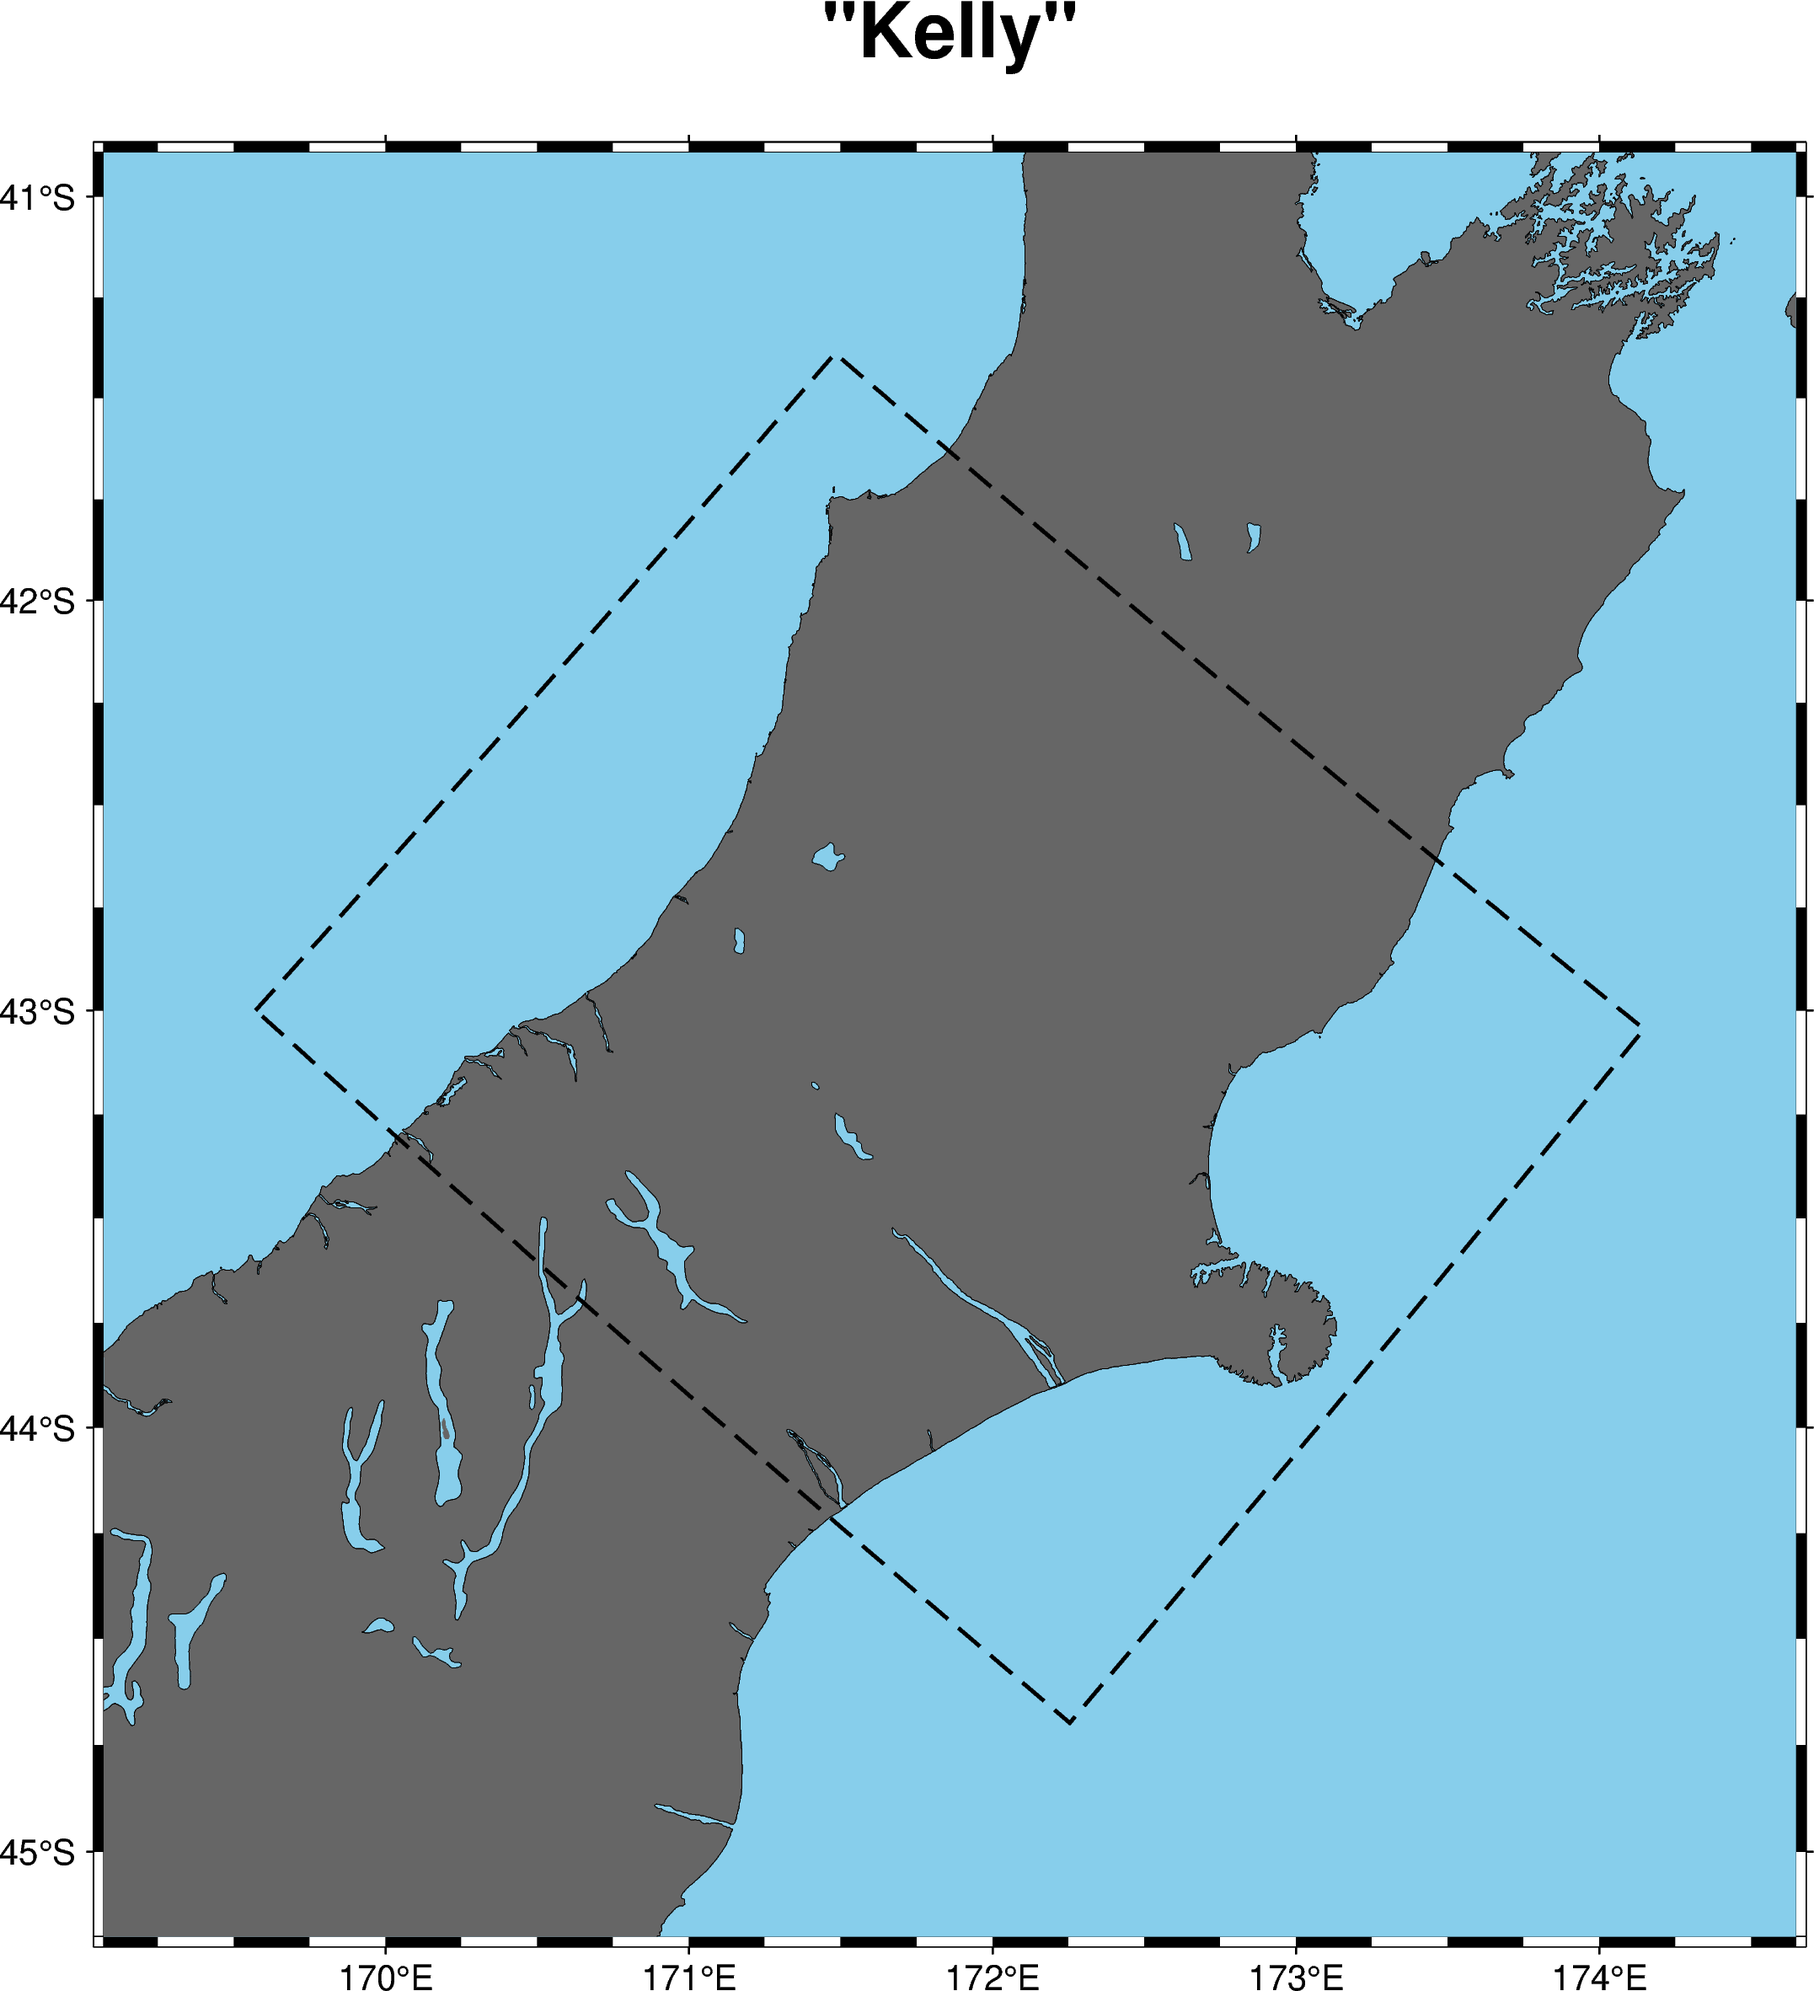
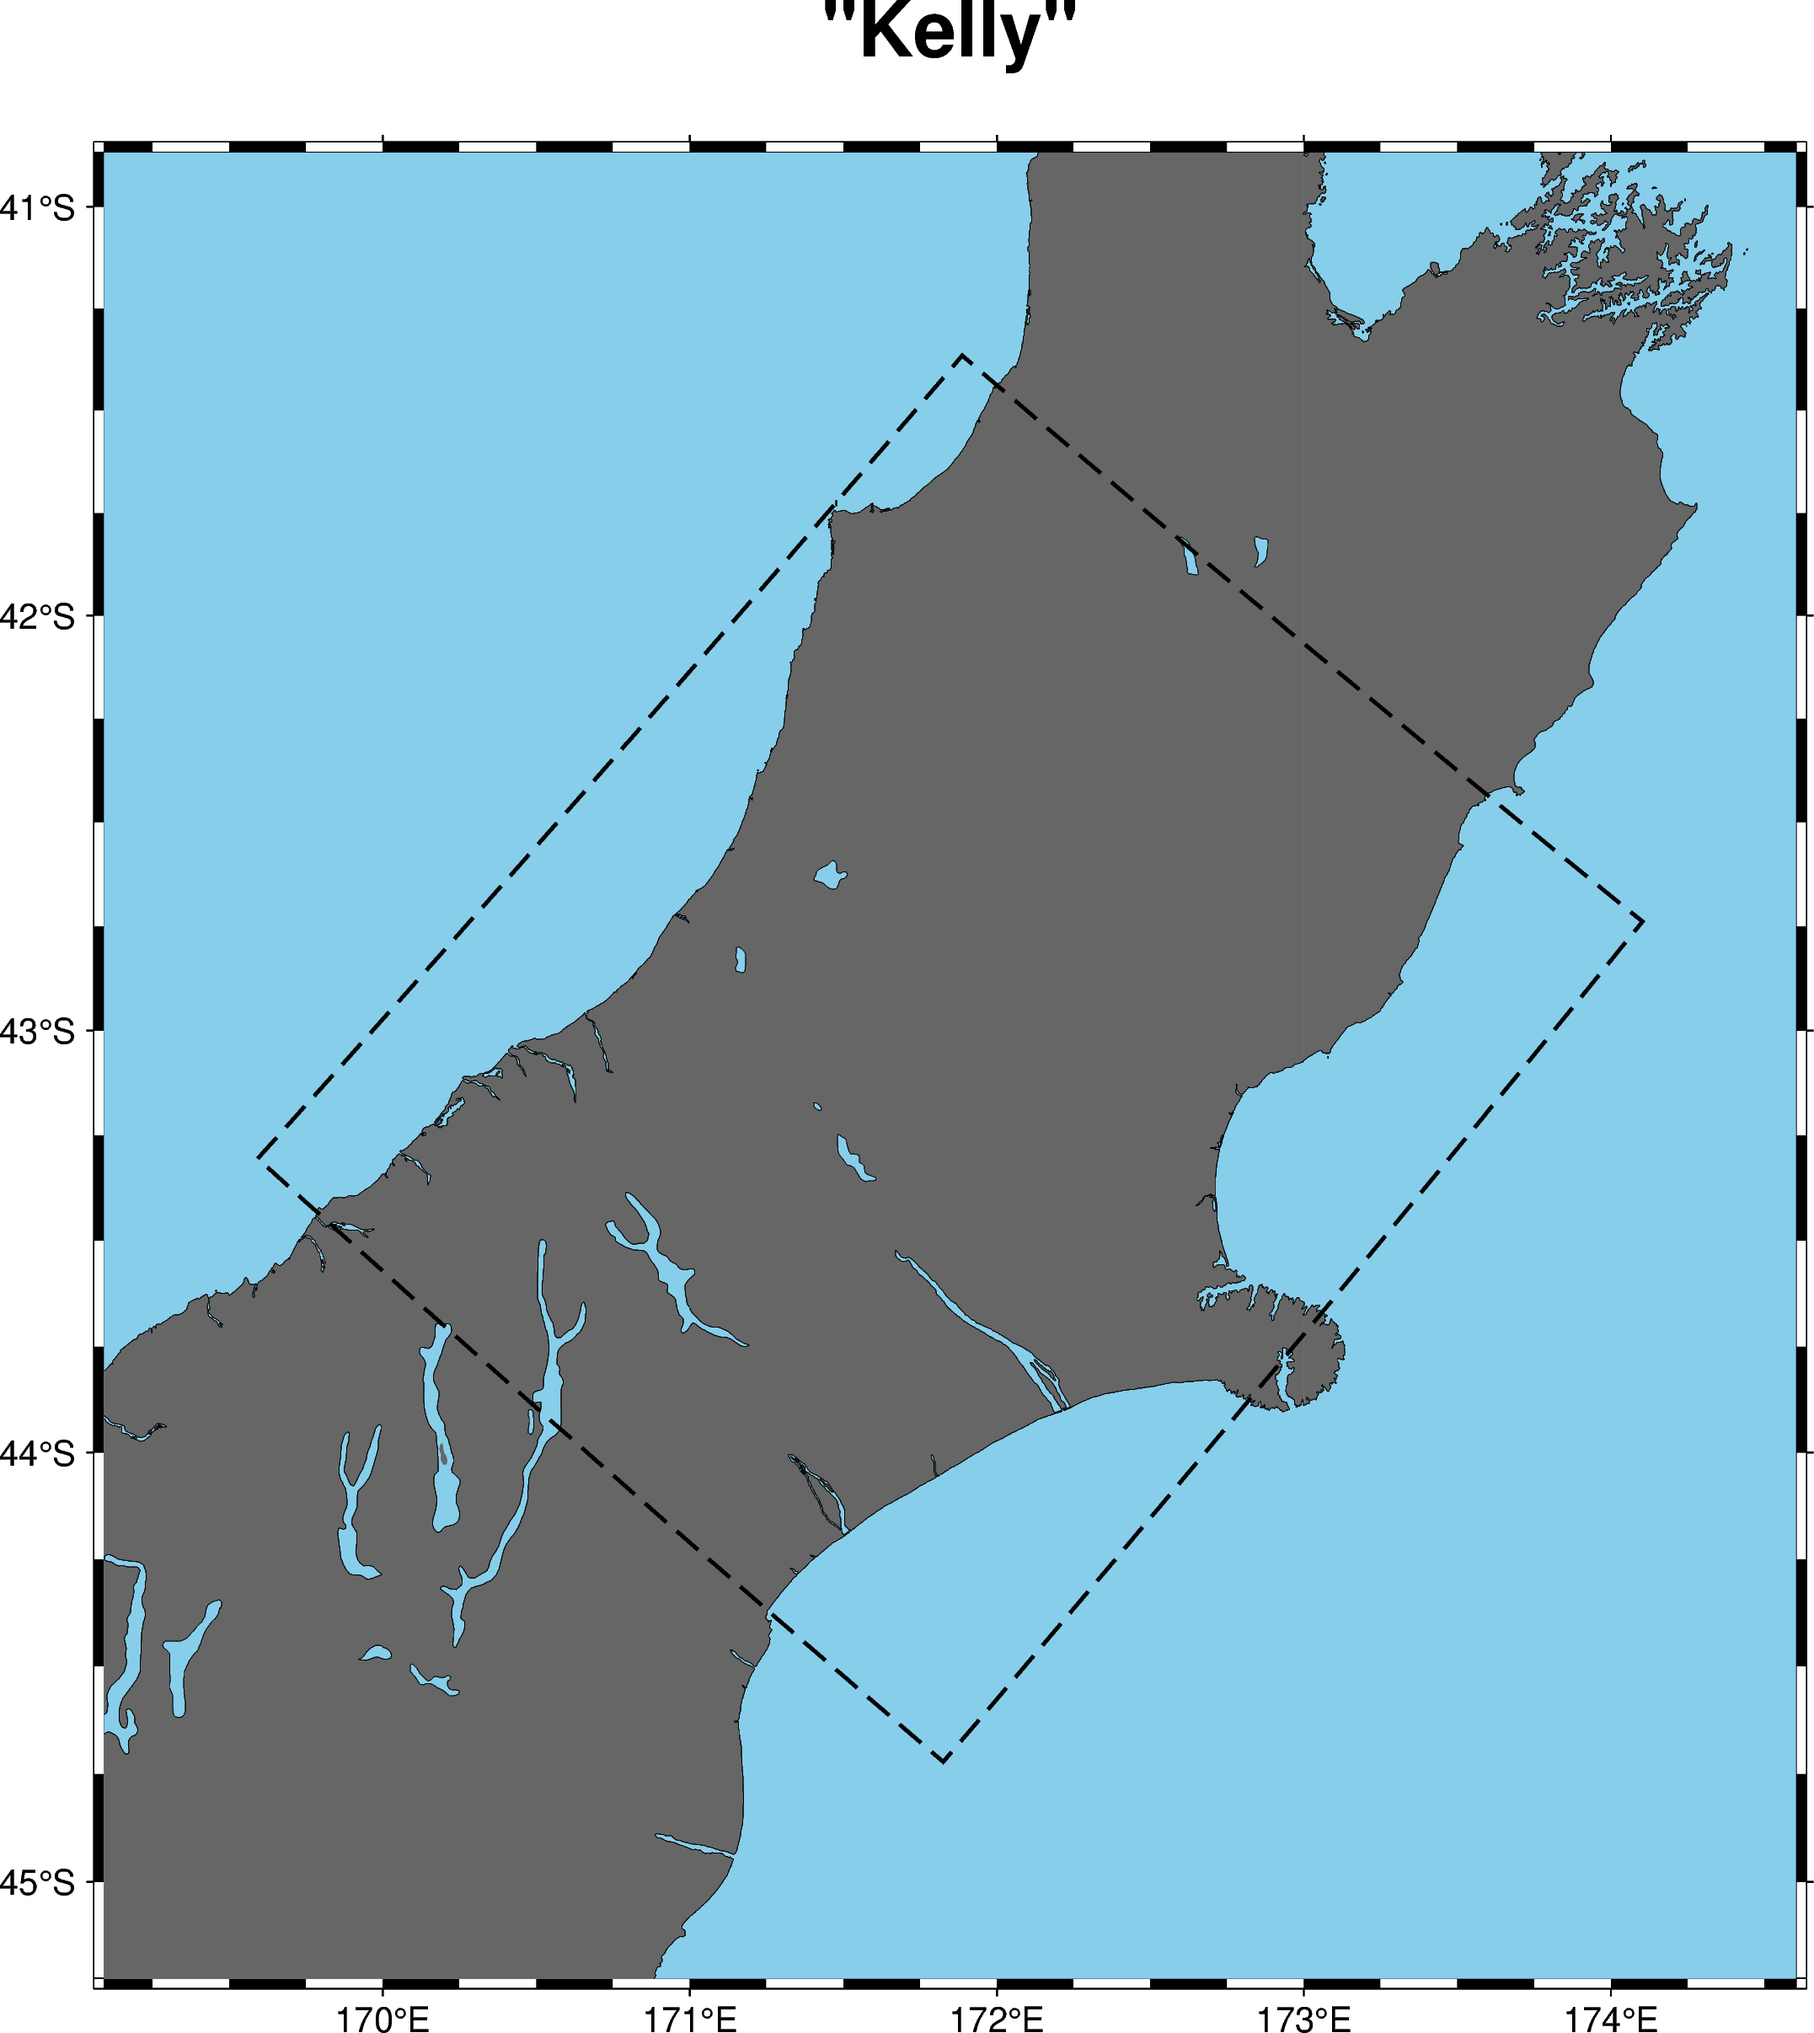
add swedge1 velocity model test

diff --git a/velocity_modelling/scripts/plot_velocity_model.py b/velocity_modelling/scripts/plot_velocity_model.py
@@ -1,13 +1,23 @@
+from enum import Enum
 from pathlib import Path
 from typing import Annotated, Optional
 
+import numpy as np
+import pandas as pd
 import typer
 import yaml
 
 from pygmt_helper import plotting
+from qcore import grid
 from velocity_modelling import bounding_box
 
 app = typer.Typer()
+
+
+class VelocityModelComponent(str, Enum):
+    p_wave = "p_wave"
+    s_wave = "s_wave"
+    density = "rho"
 
 
 @app.command()
@@ -24,6 +34,15 @@ def plot_velocity_model(
     realisation_ffp: Annotated[
         Optional[Path],
         typer.Option(help="Path to realisation JSON file", dir_okay=False),
+    ] = None,
+    velocity_model_ffp: Annotated[
+        Optional[Path],
+        typer.Option(
+            help="Path to velocity model directory", file_okay=False, exists=True
+        ),
+    ] = None,
+    resolution: Annotated[
+        Optional[float], typer.Option(help="Resolution of the velocity model")
     ] = None,
     centre_lat: Annotated[
         Optional[float], typer.Option(help="Centre latitude", min=-90, max=90)
@@ -50,23 +69,48 @@ def plot_velocity_model(
     dpi: Annotated[
         float, typer.Option(help="Plot output DPI (higher is better)")
     ] = 300,
+    component: Annotated[
+        VelocityModelComponent,
+        typer.Option(help="Velocity model component to overlay."),
+    ] = VelocityModelComponent.p_wave,
+    slice: Annotated[
+        int, typer.Option(help="z-level slice of velocity model to plot.")
+    ] = 0,
+    nz: Annotated[
+        Optional[int], typer.Option(help="Number of z-slices in velocity model")
+    ] = None,
+    transparency: Annotated[
+        int, typer.Option(help="Velocity model overlay transparency, (0 = opaque)")
+    ] = 80,
 ):
     """Plot the boundary of the velocity model."""
-    if vm_params_ffp is not None:
+    nx = ny = None
+    if vm_params_ffp:
         with open(vm_params_ffp) as vm_params_handle:
             vm_params = yaml.safe_load(vm_params_handle)
+
+        # Extent x and extent y are swapped in meaning between the old
+        # vm params and the new bounding box class. So we swap them
+        # here when we load them.
         box = bounding_box.BoundingBox.from_centroid_bearing_extents(
             [vm_params["MODEL_LAT"], vm_params["MODEL_LON"]],
             vm_params["MODEL_ROT"],
-            vm_params["extent_x"],
             vm_params["extent_y"],
+            vm_params["extent_x"],
         )
-    elif realisation_ffp is not None:
+
+        resolution = vm_params.get("hh")
+        nx = vm_params.get("nx")
+        ny = vm_params.get("ny")
+        nz = vm_params.get("nz")
+    elif realisation_ffp:
         from workflow.realisations import DomainParameters, SourceConfig
 
         domain_parameters = DomainParameters.read_from_realisation(realisation_ffp)
-        box = domain_parameters.domain
-
+        nx = domain_parameters.nx
+        ny = domain_parameters.ny
+        nz = domain_parameters.nz
+        resolution = domain_parameters.resolution
     elif all(
         parameter is not None
         for parameter in [
@@ -80,12 +124,14 @@ def plot_velocity_model(
         box = bounding_box.BoundingBox.from_centroid_bearing_extents(
             [centre_lat, centre_lon], bearing, extent_x, extent_y
         )
+        if resolution:
+            nx = int(round(extent_x / resolution))
+            ny = int(round(extent_y / resolution))
     else:
         print(
             "You must provide either a vm_params.yaml, realisation json file, or manually specify the domain parameters."
         )
-        typer.Exit(code=1)
-
+        raise typer.Exit(code=1)
     region = (
         box.corners[:, 1].min() - longitude_pad,
         box.corners[:, 1].max() + longitude_pad,
@@ -99,7 +145,7 @@ def plot_velocity_model(
         close=True,
         pen="1p,black,-",
     )
-    if realisation_ffp is not None:
+    if realisation_ffp:
         source_config = SourceConfig.read_from_realisation(realisation_ffp)
         for fault in source_config.source_geometries.values():
             for plane in fault.corners.reshape((-1, 4, 3)):
@@ -109,6 +155,85 @@ def plot_velocity_model(
                     close=True,
                     pen="0.5p,black",
                 )
+
+    if velocity_model_ffp and not resolution:
+        print(
+            "You must provide a resolution for the velocity model if you supply a velocity model."
+        )
+        raise typer.Exit(1)
+    elif velocity_model_ffp:
+        filepath_map = {
+            VelocityModelComponent.p_wave: "vp3dfile.p",
+            VelocityModelComponent.s_wave: "vs3dfile.s",
+            VelocityModelComponent.density: "rho3dfile.d",
+        }
+
+        velocity_model = np.memmap(
+            velocity_model_ffp / filepath_map[component],
+            shape=(ny, nz, nx),
+            # NOTE: This may require tweaks in the future to account
+            # for differing endianness across machines. For now, this
+            # should be fine.
+            dtype="<f4",
+        )
+
+        corners = np.c_[box.corners, np.zeros_like(box.corners[:, 0])]
+
+        # The indexing here is to account for:
+        # 1. The coordinate meshgrid generating along the boundary of
+        # the domain (hence, 1:-1, 1:-1),
+        # 2. The fact we don't need depth (hence :2)
+        lat_lon_grid = grid.coordinate_meshgrid(
+            corners[-1], corners[-2], corners[0], resolution * 1000
+        )[1:-1, 1:-1, :2]
+
+        # The lat lon grid has shape (nx, ny, nz), so we flip that to
+        # make the veloity model.
+        lat_lon_grid = np.transpose(lat_lon_grid, (1, 0, 2))
+
+        velocity_slice = velocity_model[:, slice, :].reshape((ny, nx))
+        velocity_model_df = pd.DataFrame(
+            {
+                # Additionally, the lat lon grid is reversed compared to the velocity model.
+                "lat": lat_lon_grid[::-1, ::-1, 0].ravel(),
+                "lon": lat_lon_grid[::-1, ::-1, 1].ravel(),
+                "value": velocity_slice.ravel(),
+            }
+        )
+
+        cur_grid = plotting.create_grid(
+            velocity_model_df,
+            "value",
+            grid_spacing="100e/100e",
+            region=region,
+            set_water_to_nan=False,
+        )
+        cmap_limits = (
+            velocity_model_df["value"].min().round(1),
+            velocity_model_df["value"].max().round(1),
+            (
+                (velocity_model_df["value"].max() - velocity_model_df["value"].min())
+                / 10
+            ).round(1),
+        )
+        print(cmap_limits)
+        cb_label_map = {
+            VelocityModelComponent.s_wave: "S Wave Velocity",
+            VelocityModelComponent.p_wave: "P Wave Velocity",
+            VelocityModelComponent.density: "Density",
+        }
+        plotting.plot_grid(
+            fig,
+            cur_grid,
+            "hot",
+            cmap_limits,
+            ("white", "black"),
+            transparency=transparency,
+            reverse_cmap=True,
+            plot_contours=False,
+            cb_label=cb_label_map[component],
+            continuous_cmap=True,
+        )
 
     fig.savefig(
         output_plot_path,

diff --git a/tests/test_velocity_model_plots.py b/tests/test_velocity_model_plots.py
@@ -1,6 +1,8 @@
 import hashlib
+import subprocess
 import tempfile
 from pathlib import Path
+from urllib import request
 
 from velocity_modelling.scripts import plot_velocity_model
 
@@ -12,6 +14,8 @@ def md5sum(file: Path) -> str:
 
 PLOT_IMAGE_DIRECTORY = Path("wiki/images")
 INPUT_FFP = Path(__file__).parent / "input"
+
+SWEDGE_RHO3D_FILE_LINK = "https://www.dropbox.com/scl/fi/y8qf8zjq4zf9yeejsopya/rho3dfile.d?rlkey=87xt4kpac94dwf9hfo5pjepyb&st=n0x5qvit&dl=0"
 
 
 def test_plot_velocity_model():
@@ -50,3 +54,28 @@ def test_plot_velocity_model():
             longitude_pad=0.5,
         )
         assert md5sum(PLOT_IMAGE_DIRECTORY / "custom.png") == md5sum(output_path.name)
+
+
+def test_plot_velocity_model_density():
+    """Check that velocity model contents are plotted correctly."""
+    with tempfile.NamedTemporaryFile(
+        suffix=".png"
+    ) as output_path, tempfile.TemporaryDirectory() as velocity_model_directory:
+        # Download the swedge rho3dfile for testing
+        subprocess.check_call(
+            [
+                "wget",
+                SWEDGE_RHO3D_FILE_LINK,
+                "-O",
+                str(Path(velocity_model_directory) / "rho3dfile.d"),
+            ]
+        )
+
+        plot_velocity_model.plot_velocity_model(
+            output_path.name,
+            title="Swedge1: Density Plot",
+            vm_params_ffp=INPUT_FFP / "Swedge1.yaml",
+            velocity_model_ffp=Path(velocity_model_directory),
+            component=plot_velocity_model.VelocityModelComponent.density,
+        )
+        assert md5sum(PLOT_IMAGE_DIRECTORY / "swedge1.png") == md5sum(output_path.name)

diff --git a/wiki/Plotting-Velocity-Models.md b/wiki/Plotting-Velocity-Models.md
@@ -77,3 +77,20 @@ plot-velocity-model --centre-lon 172 --centre-lat -43 --extent-x 100 --extent-y 
 The above command would produce an output like:
 
 ![](images/custom.png)
+
+# I Want to Plot the Velocity Mode Contents over the Domain
+
+Regardless of the specification you use for the velocity model, you
+can additionally plot the velocity model contents over the domain with
+the `--velocity-model-ffp` argument. You should supply the directory
+of the velocity model, and then you can specify the velocity model
+component (density, S-wave, P-wave) to swap what you are plotting. You
+can tweak the z-slice to plot and the transparency of the plot as
+well.
+
+
+```bash
+plot-velocity-model --title "Swedge1: Density Plot" --vm-params-ffp vm_params.yaml --velocity-model-ffp velocity_model_dir/ --component density output.png
+```
+
+![](images/swedge1.png)
